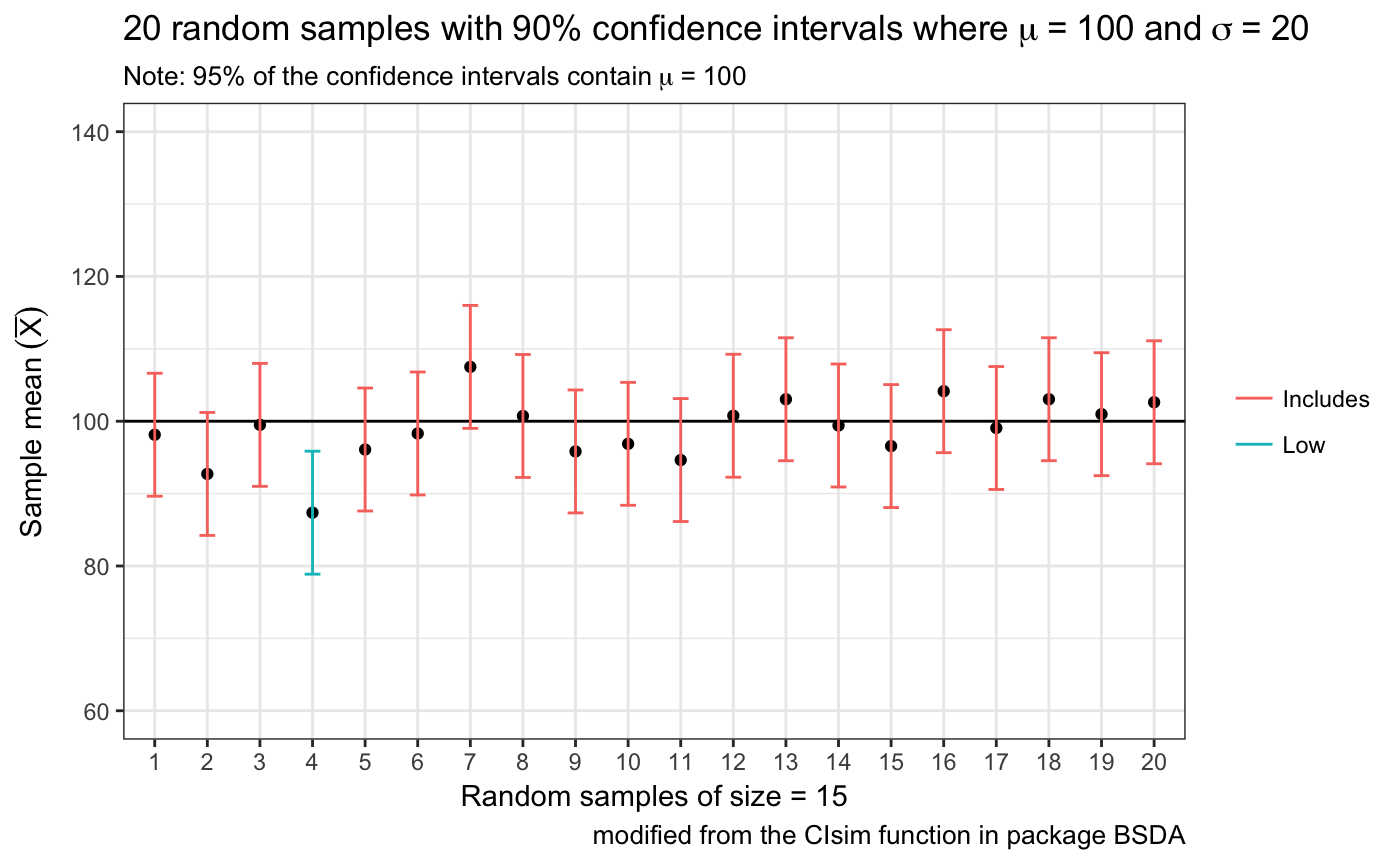
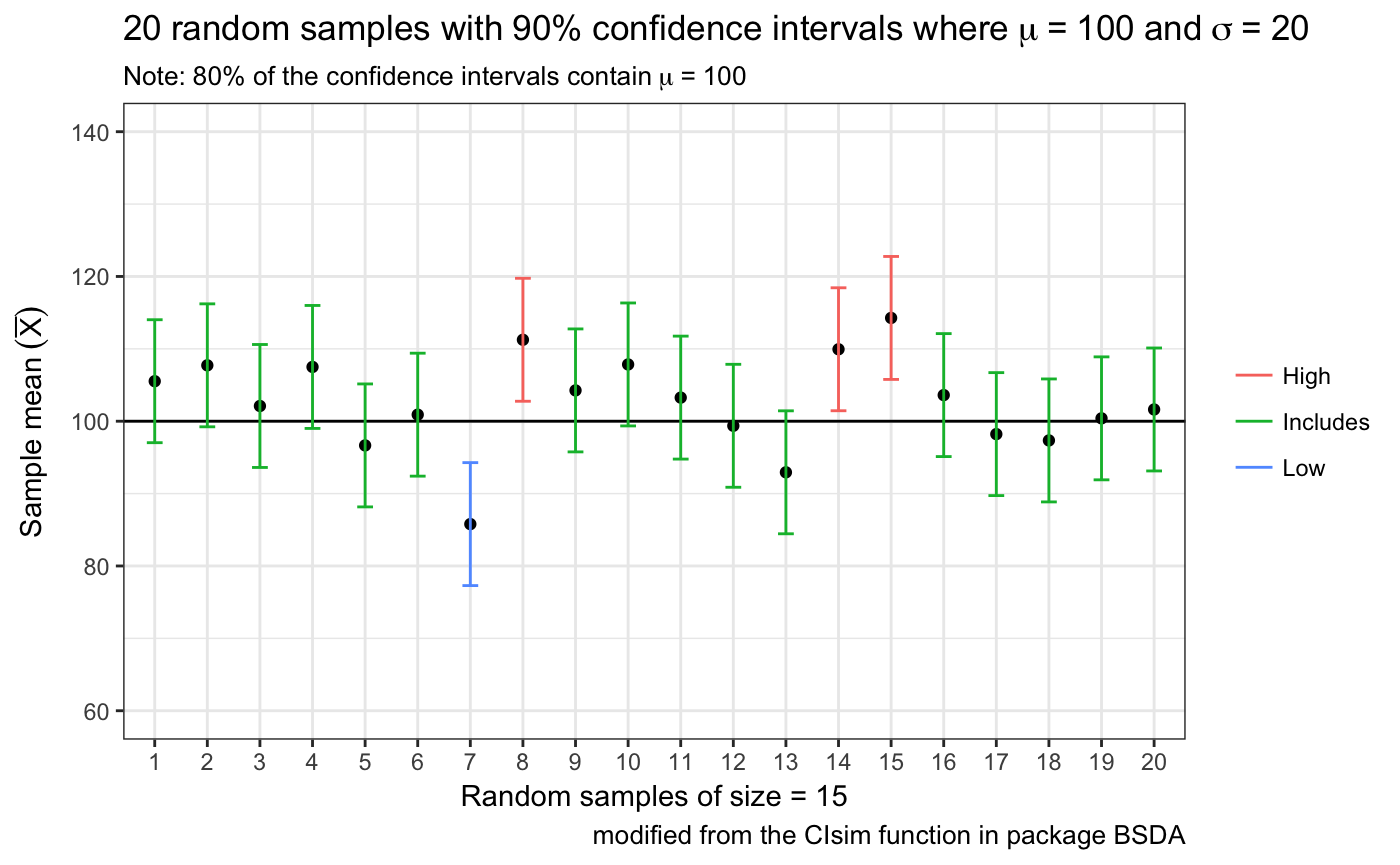
better?

diff --git a/docs/reference/SeeDist.html b/docs/reference/SeeDist.html
@@ -180,7 +180,8 @@ The rest are ignored and the user is warned on the console.</p>
     
 
     <h2 class="hasAnchor" id="examples"><a class="anchor" href="#examples"></a>Examples</h2>
-    <pre class="examples"><div class='input'><span class='fu'>SeeDist</span>(<span class='fu'>rnorm</span>(<span class='fl'>100</span>, <span class='kw'>mean</span><span class='kw'>=</span><span class='fl'>100</span>, <span class='kw'>sd</span><span class='kw'>=</span><span class='fl'>20</span>), <span class='kw'>numbins</span> <span class='kw'>=</span> <span class='fl'>15</span>, <span class='kw'>whatvar</span> <span class='kw'>=</span> <span class='st'>"A Random Sample"</span>)</div><div class='output co'>#&gt; <span class='warning'>Warning: There are 100 modal values displaying just the first 3</span></div><div class='img'><img src='SeeDist-1.png' alt='' width='700' height='433' /></div><div class='output co'>#&gt; <span class='error'>Error in grid.Call(C_textBounds, as.graphicsAnnot(x$label), x$x, x$y,     resolveHJust(x$just, x$hjust), resolveVJust(x$just, x$vjust),     x$rot, 0): polygon edge not found</span></div><div class='img'><img src='SeeDist-2.png' alt='' width='700' height='433' /></div><div class='input'><span class='fu'>SeeDist</span>(<span class='no'>mtcars</span>$<span class='no'>hp</span>, <span class='kw'>whatvar</span> <span class='kw'>=</span> <span class='st'>"Horsepower"</span>)</div><div class='output co'>#&gt; <span class='error'>Error in grid.Call(C_textBounds, as.graphicsAnnot(x$label), x$x, x$y,     resolveHJust(x$just, x$hjust), resolveVJust(x$just, x$vjust),     x$rot, 0): polygon edge not found</span></div><div class='input'><span class='fu'>SeeDist</span>(<span class='no'>iris</span>$<span class='no'>Sepal.Length</span>, <span class='kw'>whatvar</span> <span class='kw'>=</span> <span class='st'>"Sepal Length"</span>)</div><div class='output co'>#&gt; <span class='error'>Error in grid.Call(C_textBounds, as.graphicsAnnot(x$label), x$x, x$y,     resolveHJust(x$just, x$hjust), resolveVJust(x$just, x$vjust),     x$rot, 0): polygon edge not found</span></div><div class='input'>
+    <pre class="examples"><div class='input'><span class='fu'>SeeDist</span>(<span class='fu'>rnorm</span>(<span class='fl'>100</span>, <span class='kw'>mean</span><span class='kw'>=</span><span class='fl'>100</span>, <span class='kw'>sd</span><span class='kw'>=</span><span class='fl'>20</span>), <span class='kw'>numbins</span> <span class='kw'>=</span> <span class='fl'>15</span>, <span class='kw'>whatvar</span> <span class='kw'>=</span> <span class='st'>"A Random Sample"</span>)</div><div class='output co'>#&gt; <span class='warning'>Warning: There are 100 modal values displaying just the first 3</span></div><div class='img'><img src='SeeDist-1.png' alt='' width='700' height='433' /></div><div class='img'><img src='SeeDist-2.png' alt='' width='700' height='433' /></div><div class='img'><img src='SeeDist-3.png' alt='' width='700' height='433' /></div><div class='output co'>#&gt;    Min. 1st Qu.  Median    Mean 3rd Qu.    Max. 
+#&gt;   39.91   92.06  106.54  104.72  119.29  155.69 </div><div class='input'><span class='fu'>SeeDist</span>(<span class='no'>mtcars</span>$<span class='no'>hp</span>, <span class='kw'>whatvar</span> <span class='kw'>=</span> <span class='st'>"Horsepower"</span>)</div><div class='output co'>#&gt; <span class='error'>Error in grid.Call(C_textBounds, as.graphicsAnnot(x$label), x$x, x$y,     resolveHJust(x$just, x$hjust), resolveVJust(x$just, x$vjust),     x$rot, 0): polygon edge not found</span></div><div class='img'><img src='SeeDist-4.png' alt='' width='700' height='433' /></div><div class='input'><span class='fu'>SeeDist</span>(<span class='no'>iris</span>$<span class='no'>Sepal.Length</span>, <span class='kw'>whatvar</span> <span class='kw'>=</span> <span class='st'>"Sepal Length"</span>)</div><div class='output co'>#&gt; <span class='error'>Error in grid.Call(C_textBounds, as.graphicsAnnot(x$label), x$x, x$y,     resolveHJust(x$just, x$hjust), resolveVJust(x$just, x$vjust),     x$rot, 0): polygon edge not found</span></div><div class='input'>
 </div></pre>
   </div>
   <div class="col-md-3 hidden-xs hidden-sm" id="sidebar">

diff --git a/docs/reference/OurConf.html b/docs/reference/OurConf.html
@@ -171,7 +171,7 @@ their confidence intervals</p>
     
 
     <h2 class="hasAnchor" id="examples"><a class="anchor" href="#examples"></a>Examples</h2>
-    <pre class="examples"><div class='input'><span class='fu'>OurConf</span>(<span class='kw'>samples</span> <span class='kw'>=</span> <span class='fl'>100</span>, <span class='kw'>n</span> <span class='kw'>=</span> <span class='fl'>30</span>, <span class='kw'>mu</span> <span class='kw'>=</span> <span class='fl'>0</span>, <span class='kw'>sigma</span> <span class='kw'>=</span> <span class='fl'>1</span>, <span class='kw'>conf.level</span> <span class='kw'>=</span> <span class='fl'>0.95</span>)</div><div class='img'><img src='OurConf-1.png' alt='' width='700' height='433' /></div><div class='output co'>#&gt; 98 % of the confidence intervals contain Mu = 0 . </div><div class='input'><span class='fu'>OurConf</span>(<span class='kw'>samples</span> <span class='kw'>=</span> <span class='fl'>2</span>, <span class='kw'>n</span> <span class='kw'>=</span><span class='fl'>5</span>)</div><div class='img'><img src='OurConf-2.png' alt='' width='700' height='433' /></div><div class='output co'>#&gt; 100 % of the confidence intervals contain Mu = 0 . </div><div class='input'><span class='fu'>OurConf</span>(<span class='kw'>samples</span> <span class='kw'>=</span> <span class='fl'>25</span>, <span class='kw'>n</span> <span class='kw'>=</span> <span class='fl'>25</span>, <span class='kw'>mu</span> <span class='kw'>=</span> <span class='fl'>100</span>, <span class='kw'>sigma</span> <span class='kw'>=</span> <span class='fl'>20</span>, <span class='kw'>conf.level</span> <span class='kw'>=</span> <span class='fl'>0.99</span>)</div><div class='output co'>#&gt; <span class='error'>Error in grid.Call(C_textBounds, as.graphicsAnnot(x$label), x$x, x$y,     resolveHJust(x$just, x$hjust), resolveVJust(x$just, x$vjust),     x$rot, 0): polygon edge not found</span></div><div class='img'><img src='OurConf-3.png' alt='' width='700' height='433' /></div><div class='input'>
+    <pre class="examples"><div class='input'><span class='fu'>OurConf</span>(<span class='kw'>samples</span> <span class='kw'>=</span> <span class='fl'>100</span>, <span class='kw'>n</span> <span class='kw'>=</span> <span class='fl'>30</span>, <span class='kw'>mu</span> <span class='kw'>=</span> <span class='fl'>0</span>, <span class='kw'>sigma</span> <span class='kw'>=</span> <span class='fl'>1</span>, <span class='kw'>conf.level</span> <span class='kw'>=</span> <span class='fl'>0.95</span>)</div><div class='img'><img src='OurConf-1.png' alt='' width='700' height='433' /></div><div class='output co'>#&gt; 98 % of the confidence intervals contain Mu = 0 . </div><div class='input'><span class='fu'>OurConf</span>(<span class='kw'>samples</span> <span class='kw'>=</span> <span class='fl'>2</span>, <span class='kw'>n</span> <span class='kw'>=</span><span class='fl'>5</span>)</div><div class='img'><img src='OurConf-2.png' alt='' width='700' height='433' /></div><div class='output co'>#&gt; 100 % of the confidence intervals contain Mu = 0 . </div><div class='input'><span class='fu'>OurConf</span>(<span class='kw'>samples</span> <span class='kw'>=</span> <span class='fl'>25</span>, <span class='kw'>n</span> <span class='kw'>=</span> <span class='fl'>25</span>, <span class='kw'>mu</span> <span class='kw'>=</span> <span class='fl'>100</span>, <span class='kw'>sigma</span> <span class='kw'>=</span> <span class='fl'>20</span>, <span class='kw'>conf.level</span> <span class='kw'>=</span> <span class='fl'>0.99</span>)</div><div class='img'><img src='OurConf-3.png' alt='' width='700' height='433' /></div><div class='output co'>#&gt; 100 % of the confidence intervals contain Mu = 100 . </div><div class='input'>
 </div></pre>
   </div>
   <div class="col-md-3 hidden-xs hidden-sm" id="sidebar">

diff --git a/docs/index.html b/docs/index.html
@@ -199,7 +199,7 @@
 <p><code>OurConf</code> is a simulation function that helps you learn about confidence intervals</p>
 <div class="sourceCode" id="cb7"><pre class="sourceCode r"><code class="sourceCode r"><a class="sourceLine" id="cb7-1" data-line-number="1"><span class="kw"><a href="reference/OurConf.html">OurConf</a></span>(<span class="dt">samples =</span> <span class="dv">20</span>, <span class="dt">n =</span> <span class="dv">15</span>, <span class="dt">mu =</span> <span class="dv">100</span>, <span class="dt">sigma =</span> <span class="dv">20</span>, <span class="dt">conf.level =</span> <span class="fl">0.90</span>)</a></code></pre></div>
 <p><img src="README-OurConf-1.png" width="700"></p>
-<pre><code>#&gt; 95 % of the confidence intervals contain Mu = 100 .</code></pre>
+<pre><code>#&gt; 80 % of the confidence intervals contain Mu = 100 .</code></pre>
 </div>
 <div id="credits" class="section level2">
 <h2 class="hasAnchor">
